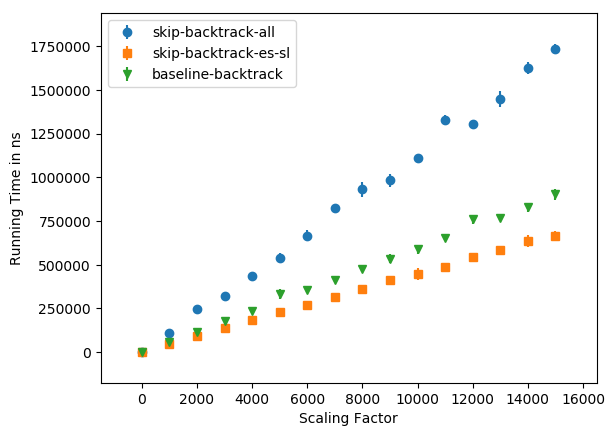
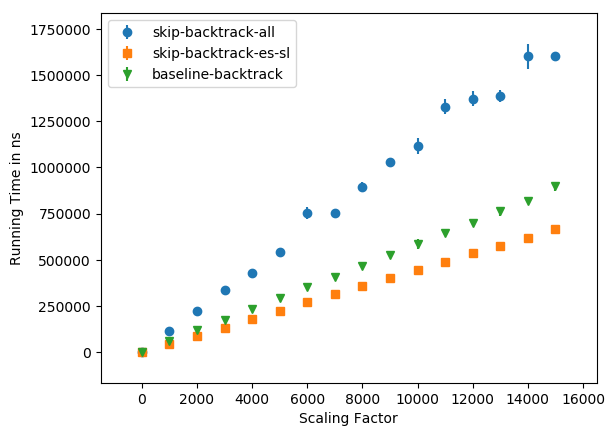
Updated graphs. Tweaked eval section.

diff --git a/evaluation.tex b/evaluation.tex
@@ -19,8 +19,7 @@ skip regex for regular expressions found in the wild. We scraped
 for regular expressions and tested to see how applicable each of the 
 optimizations we perform are. 
 
-All benchmarks were run
-on the same 5 year old Lenovo Y500 with a 4 core
+All benchmarks were run on the same 5 year old Lenovo Y500 with a 4 core
 Intel\textregistered Core\textsuperscript{TM} i7-3630QM CPU @
 2.40GHz and 8 GiB of RAM.
 
@@ -65,7 +64,12 @@ indicate which optimizations have been enabled. For example,
 indicates that the skip backtracker with $.*$ scanning and $e*$ scanning
 enabled. When all optimizations are enabled we shorten this to
 \texttt{skip\allowbreak -\allowbreak backtracker\allowbreak -\allowbreak
-all}.
+all}. We don't present the same set of backend configurations for
+every microbenchmark because certain flags are only really informative
+in the context of some benchmarks. We also frequently omit Pike VM
+results because including them would alter the scale of our
+graphs in such a way as to make examining the more interesting
+backtracking results harder.
 
 Figure \ref{fig:8000:all} provides a comparison between all the
 different benchmarks at a scaling factor of 8000.
@@ -73,6 +77,11 @@ different benchmarks at a scaling factor of 8000.
 \begin{figure}
 \caption{Benchmarks at Scaling Factor 8000}
 \label{fig:8000:all}
+
+When the average running time of a benchmark exceeded a
+1000th of a second, we truncate the bar. The spread between
+the minimum and maximum running time collected is indicated
+with an error bar.
 
 \makebox[\textwidth]{
     \includegraphics[width=\paperwidth]{resources/8000-bar.png}
@@ -96,7 +105,10 @@ As we might expect,
 the graph shows that both the skip Pike VM and the skip backtracker
 beat out the non-skip backtracker quite handily, with the running time
 of the skip engines remaining virtually flat as the running
-time of the standard backtracker grows linearly with the scaling factor.
+time of the standard backtracker grows with the scaling factor.
+The input for this microbenchmark grows large enough that we can
+observe a shift in the constant factor of the bounded backtracker
+as the cost of zeroing its bitset starts to dominate.
 The performance improvement is entirely due to the literal skip
 optimization, as shown by the fact that the performance of the skip
 backtracker with literal skipping disabled is closer to the performance
@@ -222,7 +234,7 @@ the skip backtracker and the standard backtracker, but it is negligible.
 \caption{No Opt}
 \label{fig:justtwo:branch}
 
-\includegraphics{resources/justtwo-branch.png}
+\includegraphics{resources/no-opt.png}
 \end{figure}
 
 \section{Log Parsing: A Case Study}
